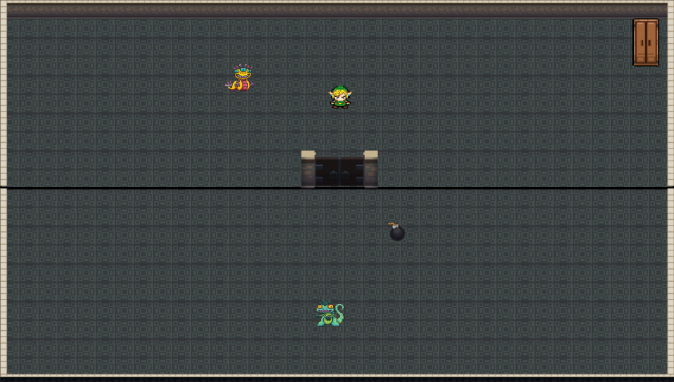
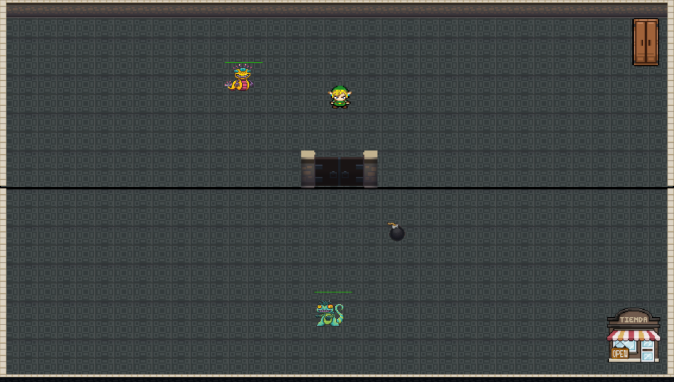
test + cambios en tienda + VOLVER y REINICIAR

diff --git a/src/model/Juego.py b/src/model/Juego.py
@@ -2,6 +2,7 @@
 #-*- coding: utf-8 -*-
 import copy
 import threading
+from src.model.Comprar import Comprar
 from src.model.Activar import Activar
 from src.model.Jugando import Jugando
 from src.model.Hechicero import Hechicero
@@ -341,10 +342,10 @@ class Juego:
         hab = Habitacion(num)
         hab.forma = self.fabricarForma()
         hab.forma.num = num
-        hab.ponerEnElemento(self.fabricarNorte(),self.fabricarPared())
-        hab.ponerEnElemento(self.fabricarEste(),self.fabricarPared())
-        hab.ponerEnElemento(self.fabricarOeste(),self.fabricarPared())
-        hab.ponerEnElemento(self.fabricarSur(),self.fabricarPared())
+        hab.ponerEnElemento(self.fabricarNorte(),self.fabricarPared(hab))
+        hab.ponerEnElemento(self.fabricarEste(),self.fabricarPared(hab))
+        hab.ponerEnElemento(self.fabricarOeste(),self.fabricarPared(hab))
+        hab.ponerEnElemento(self.fabricarSur(),self.fabricarPared(hab))
         hab.agregarOrientacion(self.fabricarNorte())
         hab.agregarOrientacion(self.fabricarEste())
         hab.agregarOrientacion(self.fabricarOeste())
@@ -381,8 +382,10 @@ class Juego:
     def fabricarOeste(self):
         return Oeste()
     
-    def fabricarPared(self):
-        return Pared()
+    def fabricarPared(self,padre):
+        pared = Pared()
+        pared.padre = padre
+        return pared
     
     def fabricarPuerta(self,unaHab:Habitacion,otraHab:Habitacion):
         puerta = Puerta()
@@ -407,10 +410,13 @@ class Juego:
     
     def fabricarMercader(self):
         mercader = Mercader('Antonio')
-        mercader.agregarObjeto(self.fabricarEspada(),50)
+        espada = self.fabricarEspada()
+        espada.agregarComando(Comprar(),espada)
+        mercader.agregarObjeto(espada,50)
         mochila = self.fabricarMochila()
         mochila.agregarObjeto(self.fabricarMoneda(10,mochila))
         mochila.agregarObjeto(self.fabricarMoneda(20,mochila))
+        mochila.agregarComando(Comprar(),mochila)
         mercader.agregarObjeto(mochila,150)
         return mercader
     
@@ -465,13 +471,13 @@ class Juego:
             hab2 = self.fabricarHabitacion(2)
 
             puerta = self.fabricarPuerta(hab1,hab2)
-            hab1.forma.norte = self.fabricarPared()
-            hab1.forma.oeste = self.fabricarPared()
-            hab1.forma.este = self.fabricarPared()
+            hab1.forma.norte = self.fabricarPared(hab1)
+            hab1.forma.oeste = self.fabricarPared(hab1)
+            hab1.forma.este = self.fabricarPared(hab1)
 
-            hab2.forma.sur = self.fabricarPared()
-            hab2.forma.oeste = self.fabricarPared()
-            hab2.forma.este = self.fabricarPared()
+            hab2.forma.sur = self.fabricarPared(hab2)
+            hab2.forma.oeste = self.fabricarPared(hab2)
+            hab2.forma.este = self.fabricarPared(hab2)
 
             hab1.forma.sur = puerta
             hab2.forma.norte = puerta
@@ -499,13 +505,13 @@ class Juego:
         hab2 = self.fabricarHabitacion(2)
 
         puerta = self.fabricarPuerta(hab1,hab2)
-        hab1.forma.norte = self.fabricarPared()
-        hab1.forma.oeste = self.fabricarPared()
-        hab1.forma.este = self.fabricarPared()
+        hab1.forma.norte = self.fabricarPared(hab1)
+        hab1.forma.oeste = self.fabricarPared(hab1)
+        hab1.forma.este = self.fabricarPared(hab1)
 
-        hab2.forma.sur = self.fabricarPared()
-        hab2.forma.oeste = self.fabricarPared()
-        hab2.forma.este = self.fabricarPared()
+        hab2.forma.sur = self.fabricarPared(hab2)
+        hab2.forma.oeste = self.fabricarPared(hab2)
+        hab2.forma.este = self.fabricarPared(hab2)
 
         hab1.forma.sur = puerta
         hab2.forma.norte = puerta
@@ -522,17 +528,17 @@ class Juego:
         hab2 = self.fabricarHabitacion(2)
         puerta = self.fabricarPuerta(hab1,hab2)
         bomba1 = self.fabricarBomba()
-        bomba1.component = self.fabricarPared()
+        bomba1.component = self.fabricarPared(hab1)
         bomba2 = self.fabricarBomba()
-        bomba2.component = self.fabricarPared()
+        bomba2.component = self.fabricarPared(hab2)
 
         hab1.forma.norte = bomba1
-        hab1.forma.oeste = self.fabricarPared()
-        hab1.forma.este = self.fabricarPared()
+        hab1.forma.oeste = self.fabricarPared(hab1)
+        hab1.forma.este = self.fabricarPared(hab1)
 
         hab2.forma.sur = bomba2
-        hab2.forma.oeste = self.fabricarPared()
-        hab2.forma.este = self.fabricarPared()
+        hab2.forma.oeste = self.fabricarPared(hab2)
+        hab2.forma.este = self.fabricarPared(hab2)
 
         hab1.forma.sur = puerta
         hab2.forma.norte = puerta

diff --git a/test_lab4Hab4Arm4HechicerosTunel.py b/test_lab4Hab4Arm4HechicerosTunel.py
@@ -2,6 +2,7 @@ import unittest
 import os
 from colorama import init, Fore, Style
 from src.model.Cuadrado import Cuadrado
+from src.model.Rombo import Rombo
 from src.model.Director import Director
 from src.model.Juego import Juego
 
@@ -13,7 +14,7 @@ class Test(unittest.TestCase):
         self.juego = Juego()
         ruta_actual = os.path.abspath(__file__)
         directorio_proyecto = os.path.dirname(ruta_actual)
-        unArchivo = os.path.join(directorio_proyecto, "laberintos/lab4Hab4Arm4BichosTunel.json")
+        unArchivo = os.path.join(directorio_proyecto, "laberintos/lab4Hab4Arm4HechicerosTunel.json")
         director = Director()
         director.procesar(unArchivo)
         self.juego = director.obtenerJuego()
@@ -21,7 +22,7 @@ class Test(unittest.TestCase):
     def testIniciales(self):
         self.assertEqual(self.juego.laberinto is not None, True)
         self.assertEqual(len(self.juego.laberinto.hijos), 4)
-    
+
     def testHabitaciones(self):
         hab1 = self.juego.obtenerHabitacion(1)
         print(Fore.MAGENTA+"\nHabitacion 1:"+ Style.RESET_ALL)
@@ -98,28 +99,21 @@ class Test(unittest.TestCase):
         
         print("\nHabitación 4: ",Fore.GREEN+"Correct"+ Style.RESET_ALL)
 
-    def testBichos(self):
-        bichoAgresivo = 0
-        bichoPerezoso = 0
-        print(Fore.MAGENTA+"\nBichos:"+ Style.RESET_ALL)
-        self.assertEqual(len(self.juego.bichos), 4)
-        print("Hay 4 bichos: ",Fore.GREEN+"Correct"+ Style.RESET_ALL)
-        for bicho in self.juego.bichos:
-            if bicho.esAgresivo():
-                bichoAgresivo+=1
+    def testHechiceros(self):
+        hechiceroMago = 0
+        hechiceroBrujo = 0
+        print(Fore.MAGENTA+"\nHechiceros:"+ Style.RESET_ALL)
+        self.assertEqual(len(self.juego.hechiceros), 4)
+        print("Hay 4 hechiceros: ",Fore.GREEN+"Correct"+ Style.RESET_ALL)
+        for hechicero in self.juego.hechiceros:
+            if hechicero.esMago():
+                hechiceroMago+=1
             else:
-                bichoPerezoso+=1
-        self.assertEqual(bichoAgresivo, 2)
-        print("Hay 2 bichos agresivos: ",Fore.GREEN+"Correct"+ Style.RESET_ALL)
-        self.assertEqual(bichoPerezoso, 2)
-        print("Hay 2 bichos perezosos: ",Fore.GREEN+"Correct"+ Style.RESET_ALL)
-        print("\nBichos: ",Fore.GREEN+"Correct"+ Style.RESET_ALL)
-        
-        bichoAgresivo = self.juego.bichos[0]
-        self.assertEqual(bichoAgresivo is not None, True)
-        print(Fore.MAGENTA+"\nBicho agresivo:"+ Style.RESET_ALL)
-        self.assertEqual(bichoAgresivo.esAgresivo(), True)
-        print("El bicho es agresivo: ",Fore.GREEN+"Correct"+ Style.RESET_ALL)
+                hechiceroBrujo+=1
+        self.assertEqual(hechiceroMago, 2)
+        print("Hay 2 magos: ",Fore.GREEN+"Correct"+ Style.RESET_ALL)
+        self.assertEqual(hechiceroBrujo, 2)
+        print("Hay 2 brujos: ",Fore.GREEN+"Correct"+ Style.RESET_ALL)
 
     def testArmarios(self):
         for habitacion in self.juego.laberinto.hijos:
@@ -136,6 +130,16 @@ class Test(unittest.TestCase):
                     print("El baul "+str(hijo.num)+" no es nulo: ",Fore.GREEN+"Correct"+ Style.RESET_ALL)
                     self.assertEqual(hijo.esBaul(), True)
                     print("El baul "+str(hijo.num)+" es baul: ",Fore.GREEN+"Correct"+ Style.RESET_ALL)
+                    for hijos in hijo.hijos:
+                        if hijos.esEspada():
+                            print(Fore.MAGENTA+"\nEspada:"+ Style.RESET_ALL)
+                            self.assertEqual(hijo.hijos is not None, True)
+                            print("La espada "+str(hijo.num)+" no es nulo: ",Fore.GREEN+"Correct"+ Style.RESET_ALL)
+                            self.assertEqual(hijos.esEspada(), True)
+                            print("La espada "+str(hijo.num)+" es espada: ",Fore.GREEN+"Correct"+ Style.RESET_ALL)
+                            self.assertEqual(hijos.estado,True)
+                            print("La espada "+str(hijo.num)+" esta afilada: ",Fore.GREEN+"Correct"+ Style.RESET_ALL)
+
                 elif hijo.esTunel():
                     print(Fore.MAGENTA+"\nTunel:"+ Style.RESET_ALL)
                     self.assertEqual(hijo is not None, True)
@@ -143,7 +147,7 @@ class Test(unittest.TestCase):
                     self.assertEqual(hijo.esTunel(), True)
                     print("El tunel es tunel: ",Fore.GREEN+"Correct"+ Style.RESET_ALL)
 
-
+        
 
 if __name__ == '__main__':
     unittest.main()

diff --git a/LaberintoGUI.py b/LaberintoGUI.py
@@ -158,6 +158,7 @@ class LaberintoGUI():
                                 pygame.mouse.set_cursor(pygame.SYSTEM_CURSOR_ARROW)
                                 seleccionado = laberintos[i + scroll_offset]
                                 laberinto_nombre = os.path.splitext(seleccionado)[0]
+                                self.laberinto = laberinto_nombre
                                 imagen_laberinto = pygame.image.load(f"graphics/preview/{laberinto_nombre}.png")
                                 break
 
@@ -234,6 +235,8 @@ class LaberintoGUI():
             hijo.forma.extentX = self.ancho
             hijo.forma.extentY = self.alto
 
+
+    
     def mostrarVentana(self):
         pygame.init()
         pygame.display.set_caption("Juego - Patterns of the Dungeon")
@@ -241,7 +244,7 @@ class LaberintoGUI():
         running = True
         self.pX = self.origenX + (self.ancho/2) - (30/2)
         self.pY = self.origenY + (self.alto/2) - (30/2)
-        fuente = pygame.font.SysFont('radnika',20)
+        fuente = pygame.font.SysFont('radnika',18)
         self.principal = pygame.image.load("graphics/principal.png").convert_alpha()
         self.principal = pygame.transform.scale(self.principal,(30*1.35,30*1.35))
         self.personaje = self.principal
@@ -258,9 +261,18 @@ class LaberintoGUI():
         # self.screen.blit(abrirPuertasText, (abrirPuertas.x + 10, abrirPuertas.y + 10))
         # abrir = False
 
-        iniciarJuego = pygame.draw.rect(self.screen, (0, 255, 0), (1200, 550, 200, 50))
+        iniciarJuego = pygame.draw.rect(self.screen, (0, 255, 0), (1275, 500, 150, 50))
         iniciarJuegoText = fuente.render("Iniciar juego", True, (255, 255, 255))
         self.screen.blit(iniciarJuegoText, (iniciarJuego.x + 10, iniciarJuego.y + 10))
+
+        reiniciar = pygame.draw.rect(self.screen, (0, 255, 0), (1275, 550, 150, 50))
+        reiniciarText = fuente.render("Reiniciar", True, (255, 255, 255))
+        self.screen.blit(reiniciarText, (reiniciar.x + 10, reiniciar.y + 10))
+
+        volver = pygame.draw.rect(self.screen, (0, 255, 0), (1275, 600, 150, 50))
+        volverText = fuente.render("Volver", True, (255, 255, 255))
+        self.screen.blit(volverText, (volver.x + 10, volver.y + 10))
+
 
 
         # activarBombas = pygame.draw.rect(self.screen, (0, 255, 0), (1200, 200, 200, 50))
@@ -307,6 +319,19 @@ class LaberintoGUI():
                         print("Iniciar juego")
                         self.juego.lanzarBichos()
                         self.juego.lanzarHechiceros()
+
+                    if reiniciar.collidepoint(self.mouse_pos):
+                        print("Reiniciar")
+                        self.juego.finJuego()
+                        self.__init__()
+                        self.iniciarJuego('laberintos/'+self.laberinto+'.json')
+                        
+
+                    if volver.collidepoint(self.mouse_pos):
+                        print("Volver")
+                        self.juego.finJuego()
+                        self.__init__()
+                        self.seleccionarJuego()
 
                     # if activarBombas.collidepoint(self.mouse_pos):
                     #     if not activar:
@@ -386,7 +411,7 @@ class LaberintoGUI():
 
         comandos = self.contActual.obtenerComandos(self.juego.personaje)
         longitud_anterior = self.longitud_comandos_anterior  # Obtener la longitud anterior
-        rect_borrar = pygame.Rect(1175, 50, 210, 20 + longitud_anterior * 60)  # Usar la longitud anterior
+        rect_borrar = pygame.Rect(1175, 50, 210, 20 + self.longitud_comandos_anterior * 30)  # Usar la longitud anterior
         pygame.draw.rect(self.screen, (50, 50, 50), rect_borrar)
         
         # if isinstance(self.contActual,Habitacion):

diff --git a/Playground.py b/Playground.py
@@ -349,13 +349,13 @@ while True:
                 if juego.personaje is not None:
                     print("¿Que quieres hacer ",personaje.nickname,' en ',personaje.posicion,'?')
                     i = 0
-                    for comando in juego.personaje.obtenerComandos():
+                    for comando in juego.personaje.obtenerComandos(juego.personaje):
                         i += 1
                         print(str(i)+". "+str(comando))
                     accion = input("¿Que accion quieres realizar?\n")
                     accion = int(accion)
-                    if accion > 0 and accion <= len(juego.personaje.obtenerComandos()):
-                        juego.personaje.obtenerComandos()[accion-1].ejecutar(juego.personaje)
+                    if accion > 0 and accion <= len(juego.personaje.obtenerComandos(juego.personaje)):
+                        juego.personaje.obtenerComandos(juego.personaje)[accion-1].ejecutar(juego.personaje)
                     else:
                         print("\n\nOpción no válida.\n\n")
                 else:

diff --git a/src/model/LaberintoBuilder.py b/src/model/LaberintoBuilder.py
@@ -250,7 +250,7 @@ class LaberintoBuilder():
         tienda = Tienda(num)
         tienda.forma = self.fabricarForma()
         tienda.forma.num = num
-        mercader = self.fabricarMercader()
+        mercader = self.fabricarMercader(None)
         tienda.mercader = mercader
         tienda.ponerEnElemento(self.fabricarNorte(),self.fabricarPared(tienda))
         tienda.ponerEnElemento(self.fabricarEste(),self.fabricarPared(tienda))
@@ -295,7 +295,6 @@ class LaberintoBuilder():
             objeto = getattr(self,'fabricar' + tipo.capitalize())()
             objeto.agregarComando(Comprar(),objeto)
             mercader.agregarObjeto(objeto,precio)
-       
         return mercader
     
     def fabricarMoneda(self,valor,ubicacion):

diff --git a/src/model/Personaje.py b/src/model/Personaje.py
@@ -10,8 +10,8 @@ class Personaje(Ente):
         self.inventario = Inventario()
         self.dinero = 50
 
-    def obtenerComandos(self):
-        return self.posicion.obtenerComandos()
+    def obtenerComandos(self,alguien):
+        return self.posicion.obtenerComandos(alguien)
     
     def cogerObjeto(self,objeto):
         self.inventario.agregarObjeto(objeto)

diff --git a/src/model/Tienda.py b/src/model/Tienda.py
@@ -35,6 +35,8 @@ class Tienda(Contenedor):
                 print(personaje,' compra ',objeto,' a ',self.mercader)
                 personaje.dinero -= objeto.precio
                 personaje.cogerObjeto(objeto)
+            else:
+                print(personaje,' no tiene suficiente dinero para comprar ',objeto,' a ',self.mercader)
                
 
 

diff --git a/src/model/Objeto.py b/src/model/Objeto.py
@@ -13,7 +13,7 @@ class Objeto(ABC):
     def quitarComando(self,unComando):
         self.comandos.remove(unComando)
 
-    def obtenerComandos(self):
+    def obtenerComandos(self,alguien):
         return self.comandos
         
     def usarObjeto(self):
